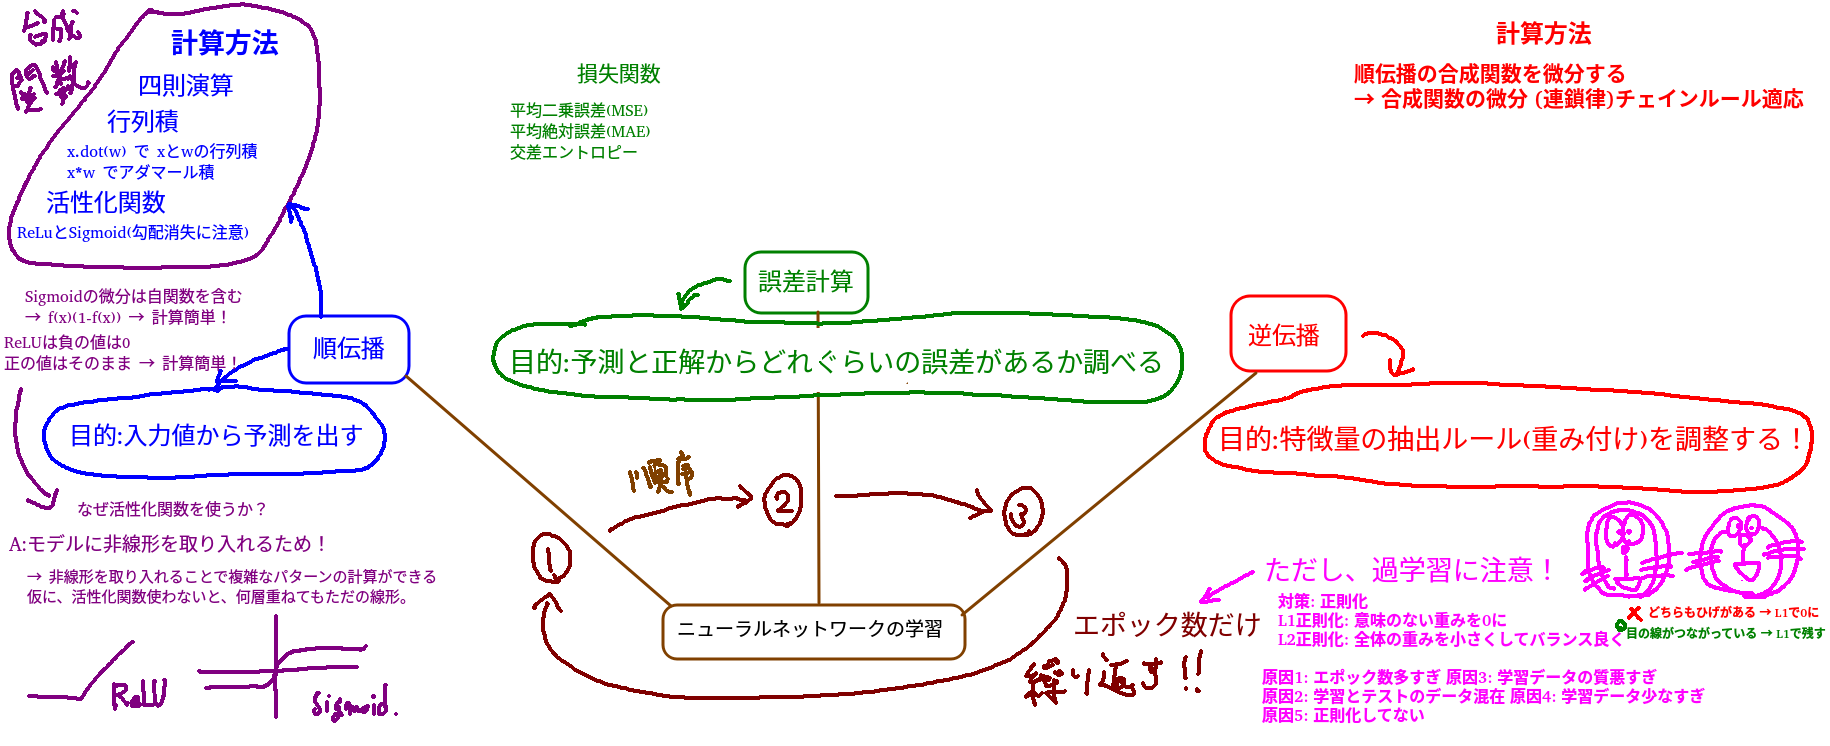
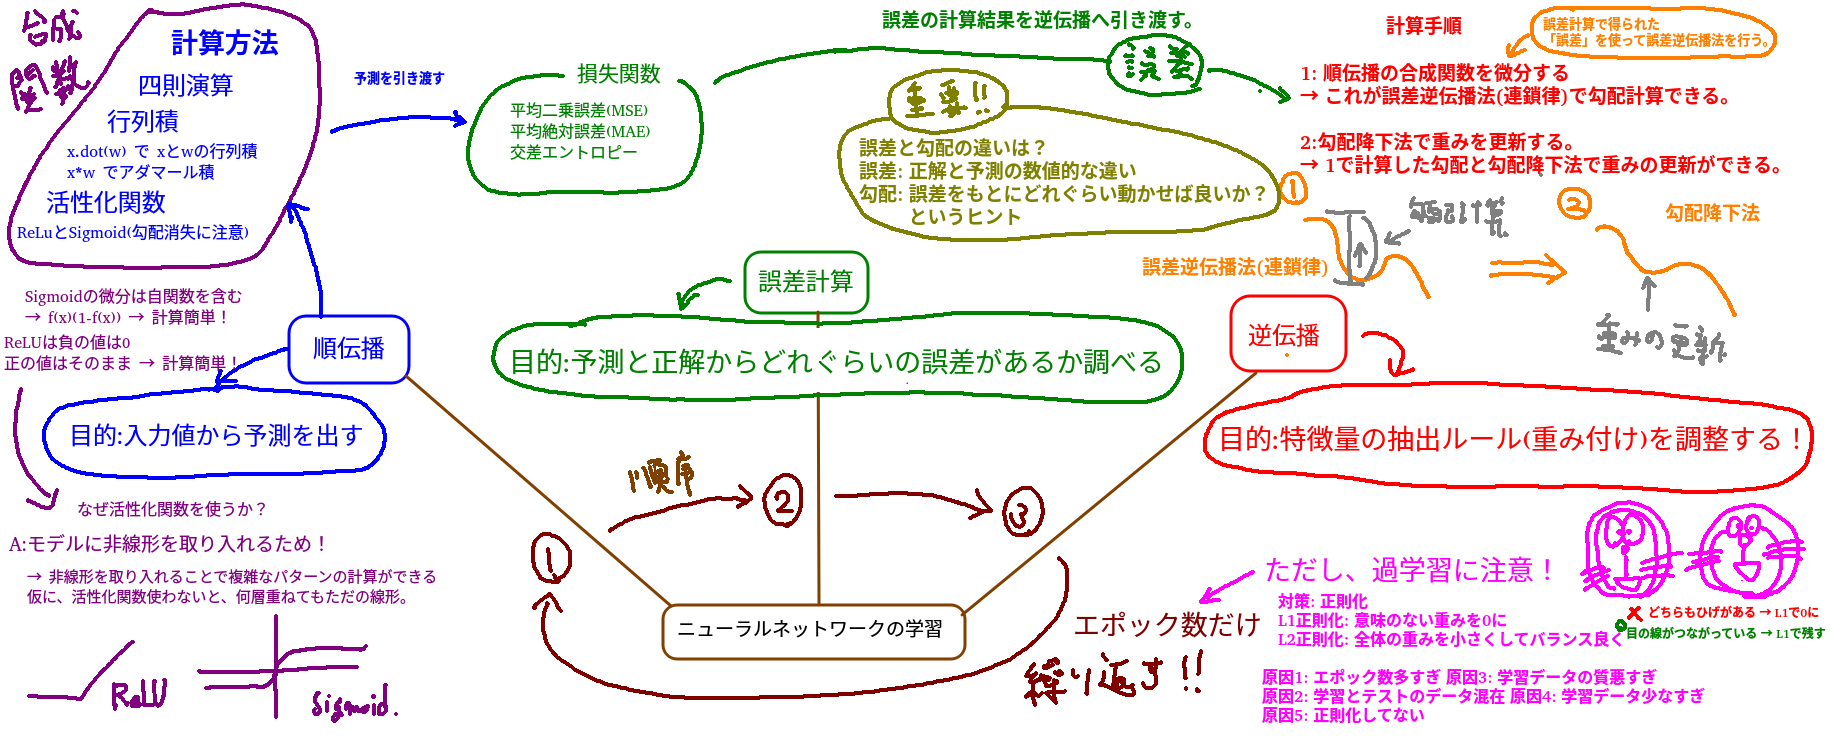
add

diff --git a/matome.md b/matome.md
@@ -1,0 +1,51 @@
+
+
+# ニューラルネットワークの構造と学習のまとめ
+
+## 理論編
+
+ニューラルネットワークは入力層、中間層、出力層の3つで構成されている。
+入力層は入力された内容を中間層に引き渡す。
+中間層は重みの計算をする。
+出力層は計算結果を出力している。
+
+ニューラルネットワークの学習は、順伝播、誤差計算、逆伝播の3つで構成されている。
+先程の入力層、中間層、出力層の3つの層を、順伝播、誤差計算、逆伝播でそれぞれ1周して計算される。
+
+以下、イメージ
+
+- 順伝播工程
+    1. 入力層
+    2. 中間層
+    3. 出力層
+- 誤差計算工程
+    1. 順伝播の出力層の予測値と正解との誤差を損失関数で求める
+- 逆伝播工程
+    1. 出力層
+    2. 中間層
+    3. 入力層
+
+順伝播では、重みの計算を行った上で予測を行う。
+重み計算で使用された四則演算、行列積、活性化関数(ReLU,Sigmoid)などが多層的に(入れ子構造的に)なったものを「合成関数」と呼ぶ
+予測結果を、後続の誤差計算の工程に引き渡す。
+
+誤差計算では、順伝播から受け取った予測をもとに、正解との誤差を計算する。
+この誤差計算を行う関数を、損失関数という。誤差とは正解と予測の数値的乖離であり、具体的な修正方法までは確認できない。誤差と損失はほぼ同義である。
+代表的な損失関数には平均二乗誤差(MSE)、平均絶対誤差(MAE)、クロスエントロピーなどがある。
+ちなみに、過学習を防ぐためにここで正則化の計算が使われることがある。L1正則化で効果のない学習の重みを0にし、L2正則化で特定パターンに偏らないように重みを全体的に小さくする。
+この工程で計算した誤差を、後続の逆伝播の工程に引き渡す。
+
+逆伝播では、誤差計算で受け取った誤差を使って、重みの更新を行う。
+まずは誤差を、誤差逆伝播法(連鎖律)を使って勾配を導き出す。誤差逆伝播法(連鎖律)は、順伝播で使った「合成関数」の微分で導き出すことができる。
+勾配とは、重みを具体的にどのように更新したら良いかがわかる数値のことである。
+この勾配をもとに勾配降下法を使って、重みの更新ができる。
+この勾配降下法を使った重みの更新時には、正則化の計算結果も反映され、過学習を抑止できる。
+
+この 順伝播 → 誤差計算 → 逆伝播 を繰り返すことで学習を重ねることができる。
+指定されたエポック数(学習回数)分だけ、順伝播 → 誤差計算 → 逆伝播 を繰り返すが、ここで何度も繰り返し学習を行っていると、モデルが複雑になり過学習状態になってしまう可能性がある点に注意する。
+過学習は、適切な学習回数の設定、高品質な学習データの用意、テストと学習データの分離、正則化を適切に行うことで抑止できる。
+
+## 実装編
+
+
+
